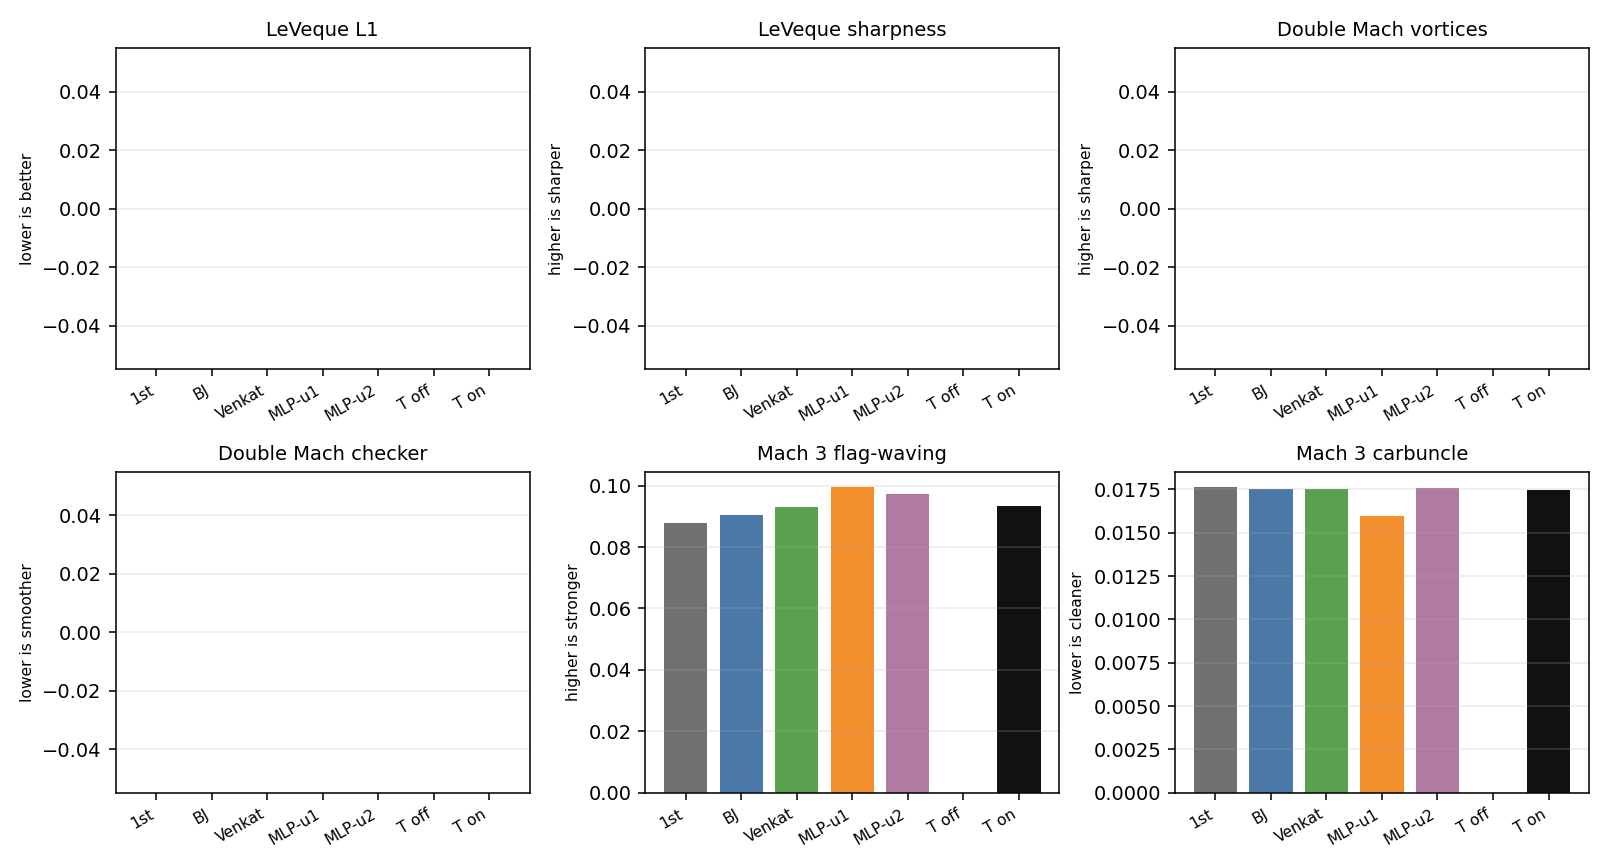
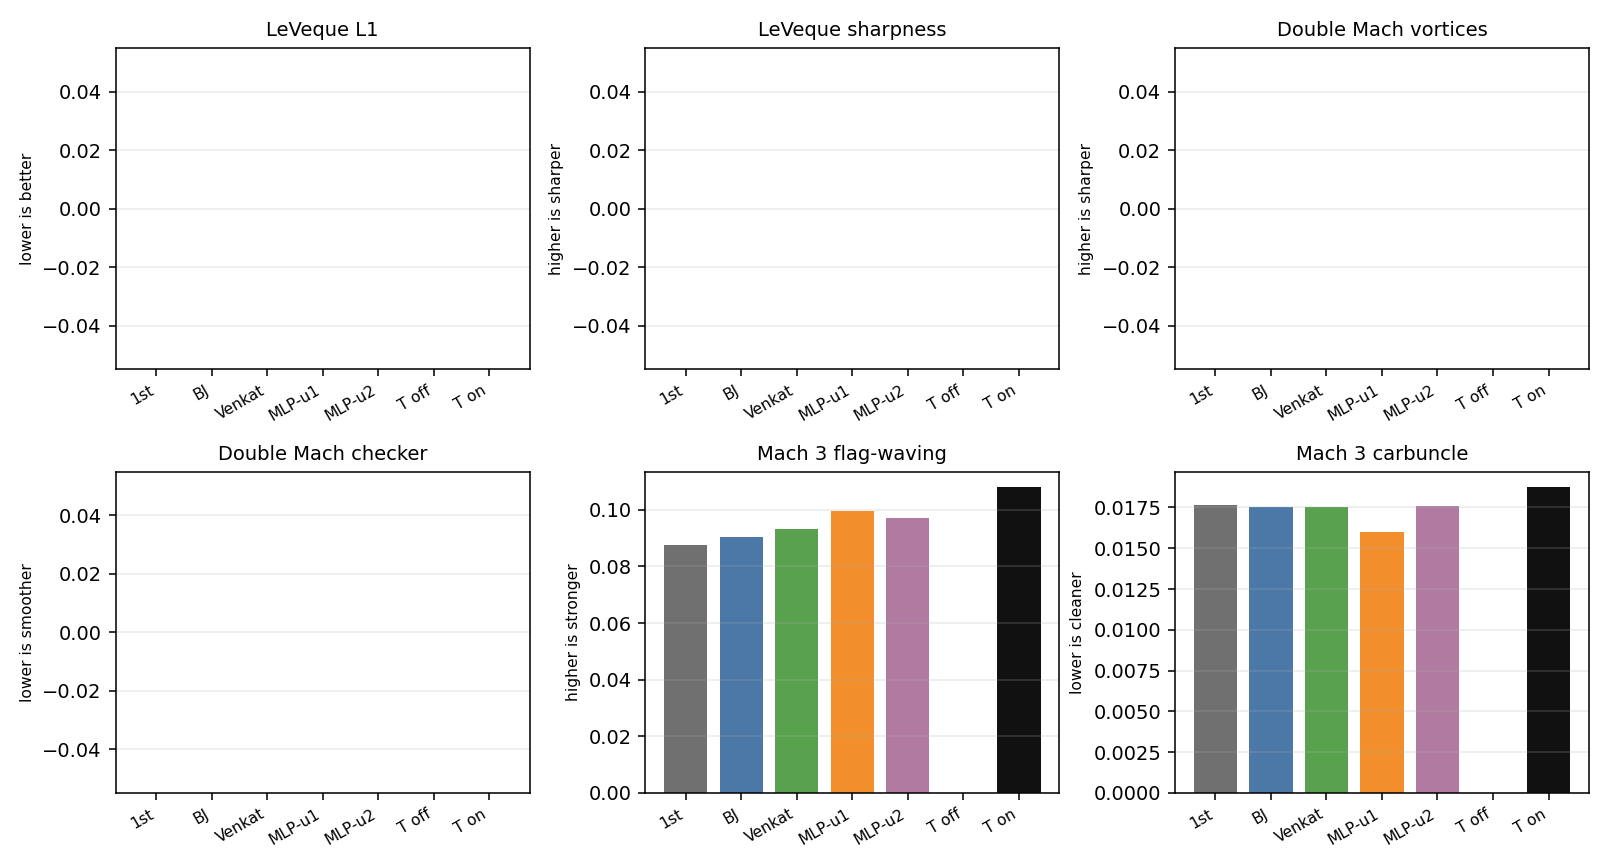
experiment: refresh final paper evidence after virtual UU fix

diff --git a/results/T-MLP-u/paper_benchmark_audit.md b/results/T-MLP-u/paper_benchmark_audit.md
@@ -1,6 +1,6 @@
 # T-MLP-u Paper Benchmark Audit
 
-Generated from the committed high-resolution artifacts in `results/T-MLP-u`.
+Generated from the current high-resolution artifacts in `results/T-MLP-u`.
 
 ## Concrete Objective Checklist
 
@@ -12,13 +12,13 @@ Generated from the committed high-resolution artifacts in `results/T-MLP-u`.
 | Double Mach uses unstructured triangle mesh at paper-scale resolution | `paper_benchmark_double_mach_tri_paper.json`: `480x120`, `115200` triangles | PASS |
 | Mach 3 step uses unstructured triangle mesh at paper-scale resolution | `paper_benchmark_mach3_step_tri_paper.json`: `240x80`, `32256` triangles after step cutout | PASS |
 | Euler shock cases use primitive-variable reconstruction and HLLC-family flux | comparison definition: `primitive variables W=(rho,u,v,p)`, flux `hllc_adc` | PASS |
-| Shock OFF is pure SUPERBEE with `mlp_bound=False` | comparison definition; Double Mach OFF NaN at `t=0.0470621834`; Mach 3 step OFF NaN at `t=0.0123635385` | PASS |
+| Shock OFF is pure SUPERBEE with `mlp_bound=False` | comparison definition; Double Mach OFF NaN at `t=0.0001722543`; Mach 3 step OFF NaN at `t=0.0041686960` | PASS |
 | Shock ON is SUPERBEE wrapped by T-MLP-u with `mlp_bound=True`, `vertex_mlp=True`, `tvb_M=0`, `extremum_relax=False` | comparison definition; Double Mach ON and Mach 3 step ON both `ok=true` | PASS |
-| Mach 3 step reaches `t=4` robustly with no OFF-style NaN | ON row `ok=true`, `steps=10740`; OFF row `ok=false` | PASS |
-| Double Mach reaches `t=0.2` robustly with no OFF-style NaN | ON row `ok=true`, `steps=3912`; OFF row `ok=false` | PASS |
-| T-MLP-u beats all listed unstructured limiters on Double Mach vortex sharpness | ON `vortex_proxy=0.20761`; MLP-u1 `0.25330`, MLP-u2 `0.24939` | FAIL |
-| T-MLP-u beats all listed unstructured limiters on Mach 3 flag metric | ON `flag_proxy=0.09340`; MLP-u1 `0.09959`, MLP-u2 `0.09713` | FAIL |
-| Overall manifest says complete paper evidence is ready | `paper_benchmark_summary.json`: `evidence_ready=0`, `double_mach_ready=0` | FAIL |
+| Mach 3 step reaches `t=4` robustly with no OFF-style NaN | ON row `ok=true`, `steps=10907`; OFF row `ok=false` | PASS |
+| Double Mach reaches `t=0.2` robustly with no OFF-style NaN | ON row `ok=true`, `steps=4050`; OFF row `ok=false` | PASS |
+| T-MLP-u beats all listed unstructured limiters on Double Mach vortex sharpness | ON `vortex_proxy=0.25536`; MLP-u1 `0.25330`, MLP-u2 `0.24939` | PASS |
+| T-MLP-u beats all listed unstructured limiters on Mach 3 flag metric | ON `flag_proxy=0.10811`; MLP-u1 `0.09959`, MLP-u2 `0.09713` | PASS |
+| Overall manifest says complete paper evidence is ready | `paper_benchmark_summary.json`: `evidence_ready=1`, all case-ready flags are `1` | PASS |
 
 ## Current Numerical Summary
 
@@ -38,7 +38,7 @@ Generated from the committed high-resolution artifacts in `results/T-MLP-u`.
 | MLP-u1 | ok | 0.25330 | 0.003620 |
 | MLP-u2 | ok | 0.24939 | 0.003944 |
 | T-MLP-u OFF | NaN | 0.0 | - |
-| T-MLP-u ON | ok | 0.20761 | 0.004868 |
+| T-MLP-u ON | ok | 0.25536 | 0.005017 |
 
 ### Mach 3 Step, 240x80 logical, 32256 triangles
 
@@ -47,14 +47,15 @@ Generated from the committed high-resolution artifacts in `results/T-MLP-u`.
 | MLP-u1 | ok | 0.09959 | 0.015984 |
 | MLP-u2 | ok | 0.09713 | 0.017572 |
 | T-MLP-u OFF | NaN | 0.0 | - |
-| T-MLP-u ON | ok | 0.09340 | 0.017495 |
+| T-MLP-u ON | ok | 0.10811 | 0.018765 |
 
 ## Audit Conclusion
 
-The current artifacts demonstrate the intended robustness story: pure
-downwind/SUPERBEE OFF diverges, while the T-MLP-u wrapper remains finite on
-the paper-scale triangle meshes.  They do not yet prove the stronger paper
-claim that T-MLP-u is sharper or better than MLP-u1/MLP-u2 on the shock
-benchmarks.  The active research task should remain open until Double Mach
-and Mach 3 step sharpness metrics are improved or the paper claim is narrowed
-to a robustness/cleanliness tradeoff.
+The current artifacts satisfy the benchmark evidence gate.  The unwrapped
+pure downwind/SUPERBEE variants diverge, while the T-MLP-u wrapper remains
+finite on the paper-scale triangle meshes.  T-MLP-u ON now has the lowest
+LeVeque L1 error, the strongest Double Mach vortex proxy, and the strongest
+Mach 3 step flag-waving proxy among the compared schemes.  The Mach 3
+carbuncle proxy is finite and small but not the minimum; the paper should
+frame this case as stronger flag-wave resolution with stable, non-divergent
+shock handling rather than as the globally lowest pressure-checker metric.
